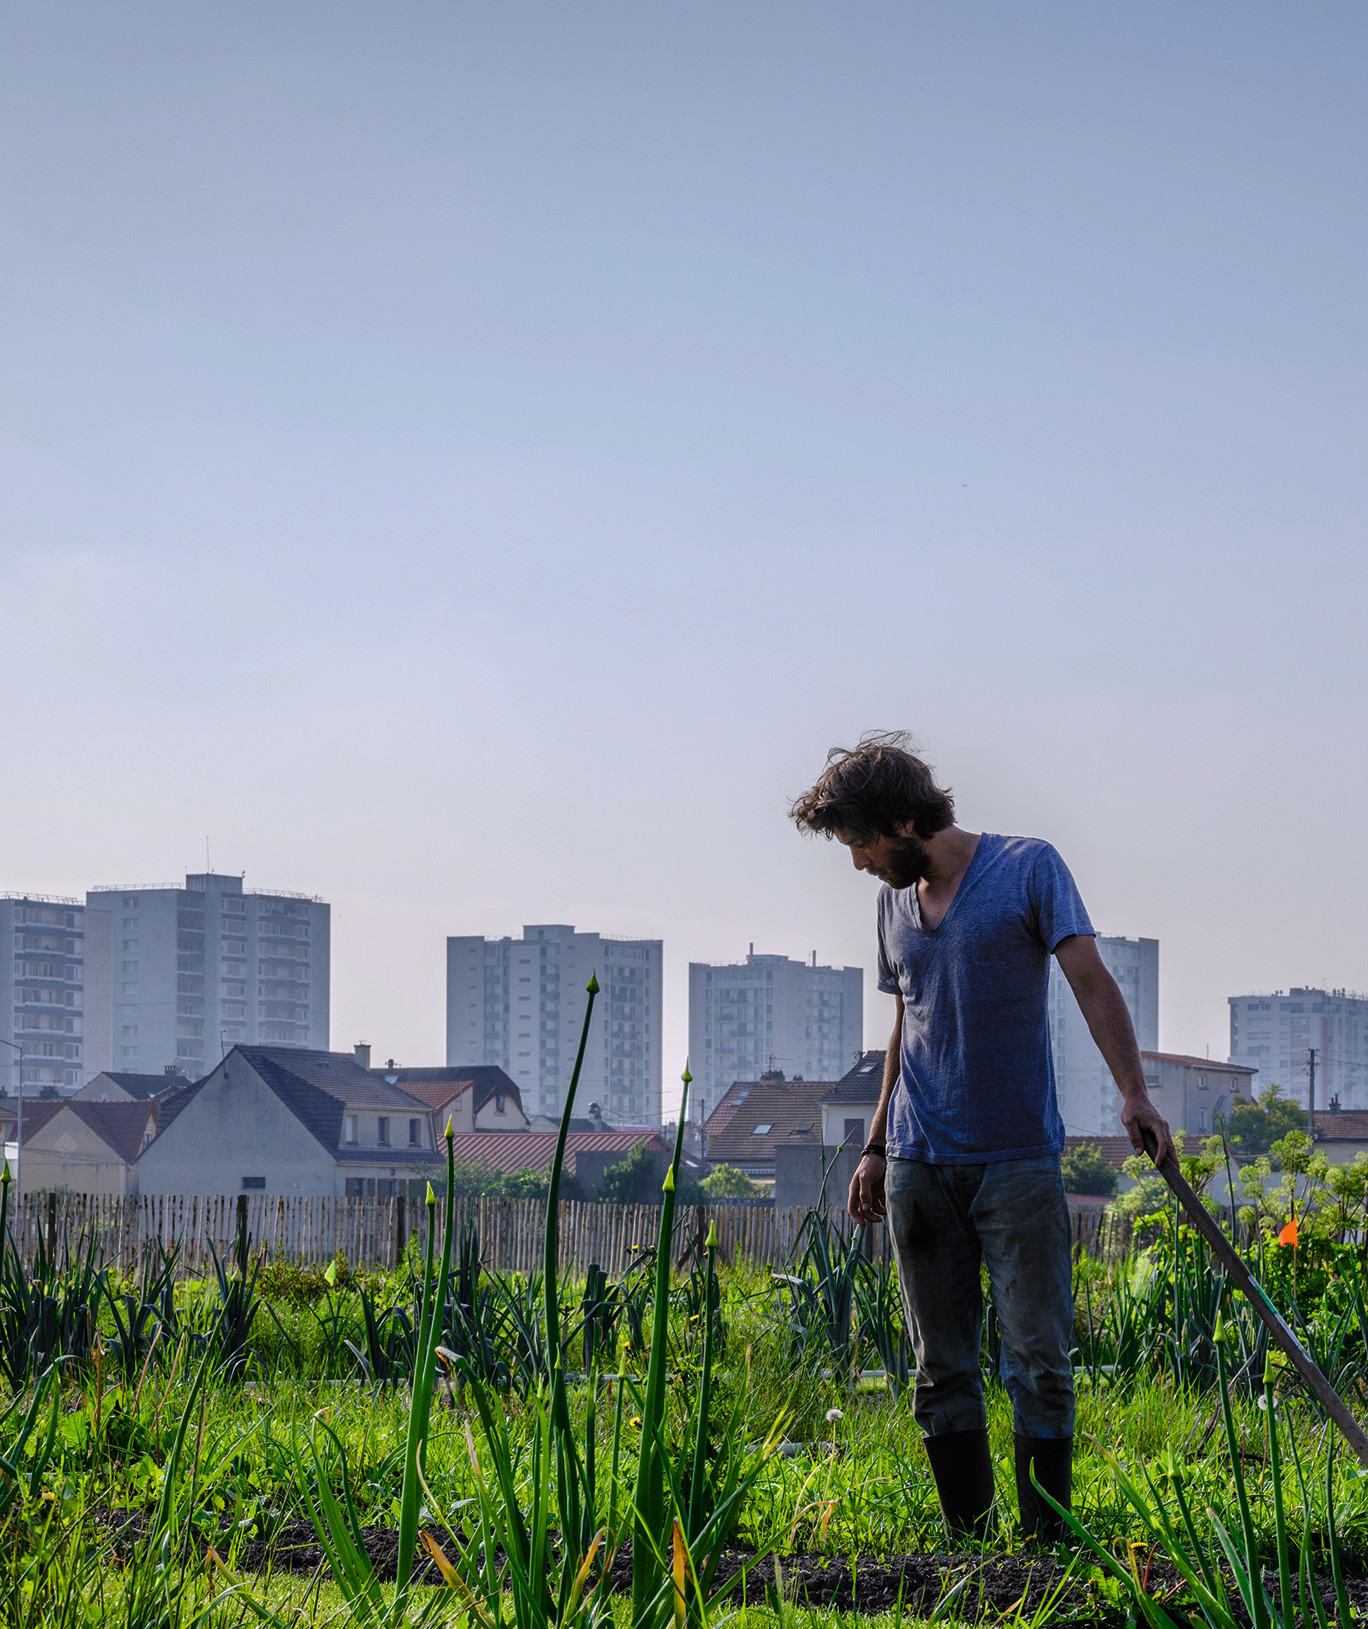
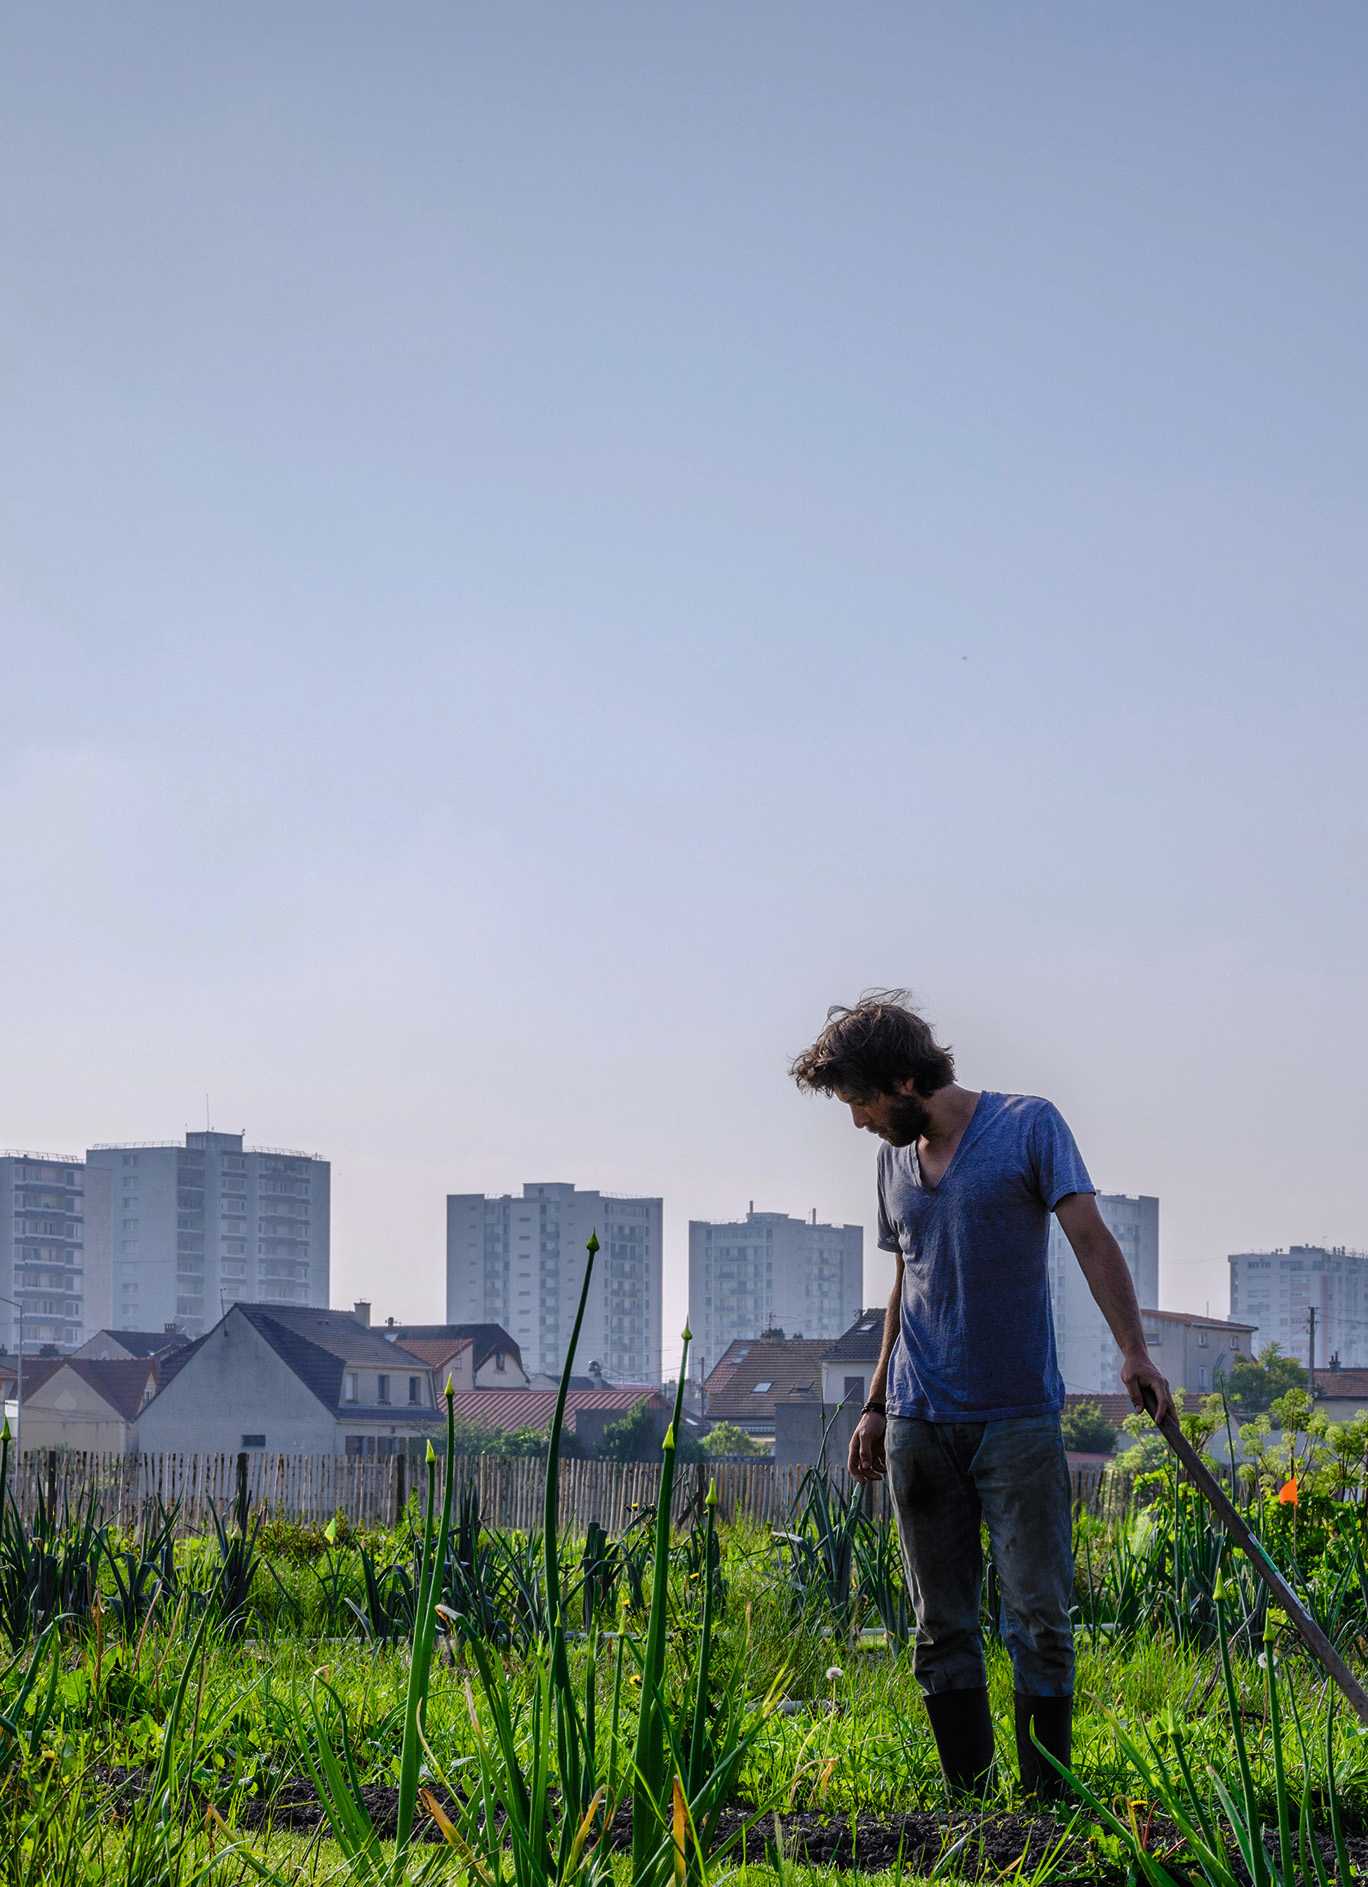
update pictures

diff --git a/reflexions.html b/reflexions.html
@@ -38,7 +38,7 @@
 		</h4><br>
 		<p>La passivité lui allait bien à ce consommateur ! Avoir de tout, tout le temps pour pas trop cher, avait ainsi progressivement émoussé son sens critique, l’avait éloigné de son rapport à la terre pour la plus grande joie des acteurs de l’alimentation. 
 		</p>
-			<img src="images/banner.jpg" width="100%;">
+			<img src="images/banner-cut.jpg" width="100%;">
 		<p><br>
 			Et puis plusieurs petits maillons de la chaîne alimentaire ont commencé à se fissurer et à lui mettre le doute, à commencer par ses interrogations sur les conséquences de ce qu’il avalait sur sa santé. L’augmentation constante de diverses maladies, les incertitudes sur les pesticides, les OGM, les conservateurs, l’inconsistance de l’information sur les produits transformés, sur les provenances, la mise à jour des conséquences de l’élevage intensif sur le traitement des animaux et les divers scandales alimentaires, ont, en quelques années, transformé notre consommateur passif et heureux en un citoyen actif et en colère. Certes la colère qui pousse à saccager des boucheries ou des exploitations agricoles n’est pas de celle à faire avancer les choses, bien au contraire, mais elle est un signe de l’exaspération, de la fin d’une époque. 
 		</p><p class="ind">
